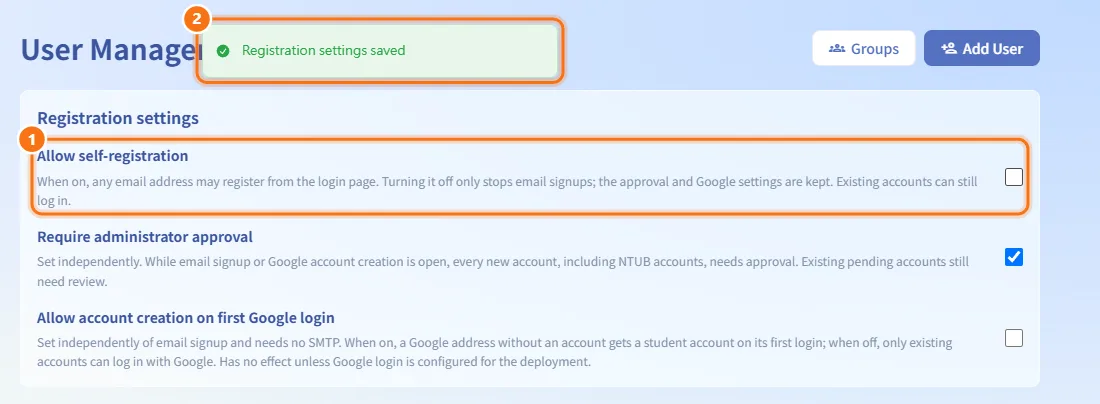
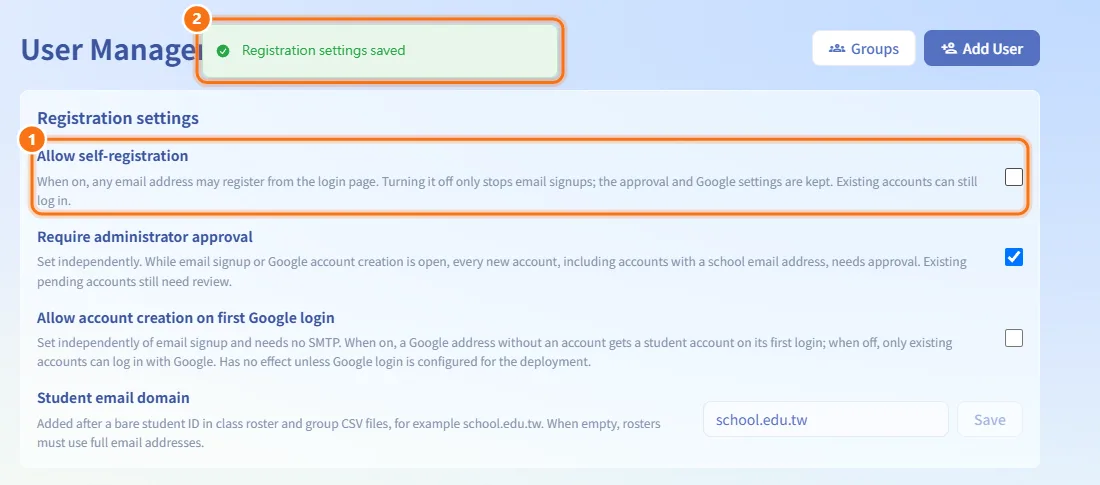
docs(manual): 重拍使用者管理「註冊設定」截圖，網域欄位說明長時不擠到下一行
- 註冊設定面板多了學號信箱網域，s01–s03（中英）重拍；手冊 mock 的註冊設定補上
  student_email_domain
- 英文說明較長時，輸入框原本被擠到下一行；說明欄改成 flex: 1 1 280px，寬度不夠才換行，
  跟上方勾選框一樣靠右

其餘 12 張也重拍比對過，只有背景漸層的像素雜訊，維持原檔。

Changed region(s): [[0.0, 0.0, 0.9582, 0.9208], [0.8964, 0.8614, 0.9273, 0.8911]]

diff --git a/frontend/src/pages/system/admin/AdminPage.module.scss b/frontend/src/pages/system/admin/AdminPage.module.scss
@@ -78,6 +78,11 @@
 /* 學號信箱網域：文字欄＋儲存，窄螢幕換到說明下方 */
 .registrationOption:has(.domainField) {
   flex-wrap: wrap;
+
+  /* 說明再長也先在自己欄內換行，欄位寬度不夠時才把輸入框換到下一行 */
+  > label {
+    flex: 1 1 280px;
+  }
 }
 
 .domainField {
